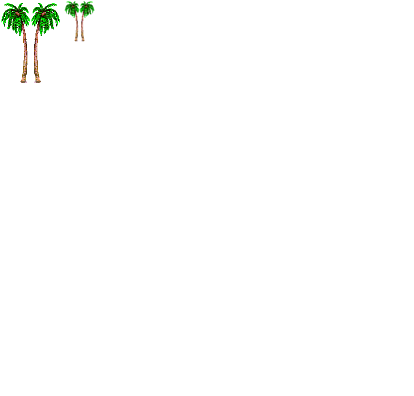
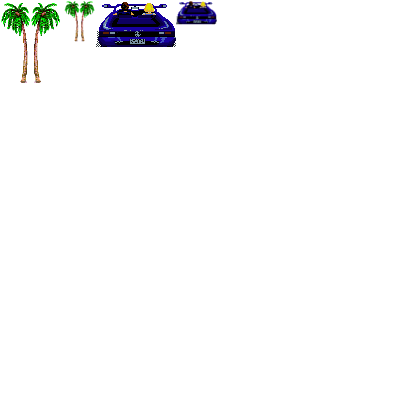
testes colocando outros carros

Changed region(s): [[0.2319, 0.0, 0.5217, 0.1212]]

diff --git a/gameObjects.js b/gameObjects.js
@@ -5,13 +5,21 @@ var right = 2;
 //I have these kinds of objects
 //0 palmtree left
 //1 palmtree right
+//2 car straight
+//3 car left
+//4 car right
 //but in the array the object is defined at type * 2 and its reduced version at type * 2 + 1
 
-
-offsetsX = [ 0,64,30,79];
-offsetsY = [ 0, 0, 0, 0];
-Widths   = [30,15,30,15];
-Heights  = [87,44,87,44];
+/*
+offsetsX = [ 0,64,30,79,125,206];
+offsetsY = [ 0, 0, 0, 0,  0,  0];
+Widths   = [30,15,30,15, 79, 42];
+Heights  = [87,44,87,44, 50, 25];
+*/
+offsetsX = [ 0,64,30,79, 95,176];
+offsetsY = [ 0, 0, 0, 0,  0,  0];
+Widths   = [30,15,30,15, 80, 38];
+Heights  = [87,44,87,44, 50, 25];
 
 function TrackObject() {
     this.x = 0;
@@ -64,7 +72,7 @@ function updateTrackObjects(trackObjects,dt){
     }
 }
 
-function drawBackground(){
+function drawBackground(canvas,ctx,backgroundX){
     var img = document.getElementById('panorama');
     var drawWidth = canvas.width;
     backgroundX = backgroundX%img.width;
@@ -170,6 +178,16 @@ function Track(yWorld,horizon, width, height,trackObjectsArray,trackWidth){
             trackObject.spriteType = 1;
             trackObjectsArray.push(trackObject);
         }
+		if(Math.random() > 0.9)
+		{
+			trackObject = new TrackObject();
+			trackObject.spriteScale = 1;
+			trackObject.x = 0;
+			trackObject.speed = 100;
+			trackObject.z = segment.z;
+			trackObject.spriteType = 2;
+            trackObjectsArray.push(trackObject);
+		}
        segments[i] = segment;
     }
     this.carSegment = segments[0];//car segment is the segment where the car is
@@ -256,11 +274,33 @@ function Track(yWorld,horizon, width, height,trackObjectsArray,trackWidth){
             // try to reuse an track object, if not available create one
             
             for(i = 0; i < this.trackObjectsArray.length; i ++){
-                if(this.trackObjectsArray[i].z < 0.1){
+                if(this.trackObjectsArray[i].z < 0.1 && this.trackObjectsArray[i].spriteType < 2){
                     this.trackObjectsArray[i].z = segments[lastIndex].z;
                     break;
                 }
+				
             }
+			if(Math.random() > 0.9)
+			{
+				trackObject = 0;
+				for(i = 0; i < this.trackObjectsArray.length; i ++){
+					if(this.trackObjectsArray[i].z < 0.1 && this.trackObjectsArray[i].spriteType == 2){
+						this.trackObjectsArray[i].z = segments[lastIndex].z;
+						trackObject = this.trackObjectsArray[i];
+						break;
+					}
+					
+				}
+				if(trackObject == 0){
+					trackObject = new TrackObject();
+					trackObjectsArray.push(trackObject);
+				}
+				trackObject.spriteScale = 1;
+				trackObject.x = 0;
+				trackObject.speed = 100;
+				trackObject.spriteType = 2;
+				
+			}
         }
         // update which the segment the car is in
         for(i = 0; i < numsegs - 1; i++){

diff --git a/main.js b/main.js
@@ -31,7 +31,7 @@ var backgroundX = 0;
 
 
 function draw(){
-    drawBackground();
+    drawBackground(canvas,ctx,backgroundX);
     track.draw(canvas,ctx,myCar.x,trackXs);
     var drawableTrackObjects = trackObjects.filter(function(a){return a.z > 0.4});
     drawableTrackObjects.sort(function(a,b){return b.z - a.z});
@@ -125,7 +125,7 @@ function handleInput(dt){
     //update track
     track.update(pos);
     updateTrackObjects(trackObjects,dt);
-    document.getElementById('framerate').innerText = parseInt(1/dt);
+    document.getElementById('framerate').innerText = "fps: "+parseInt(1/dt);
  }
  
  
